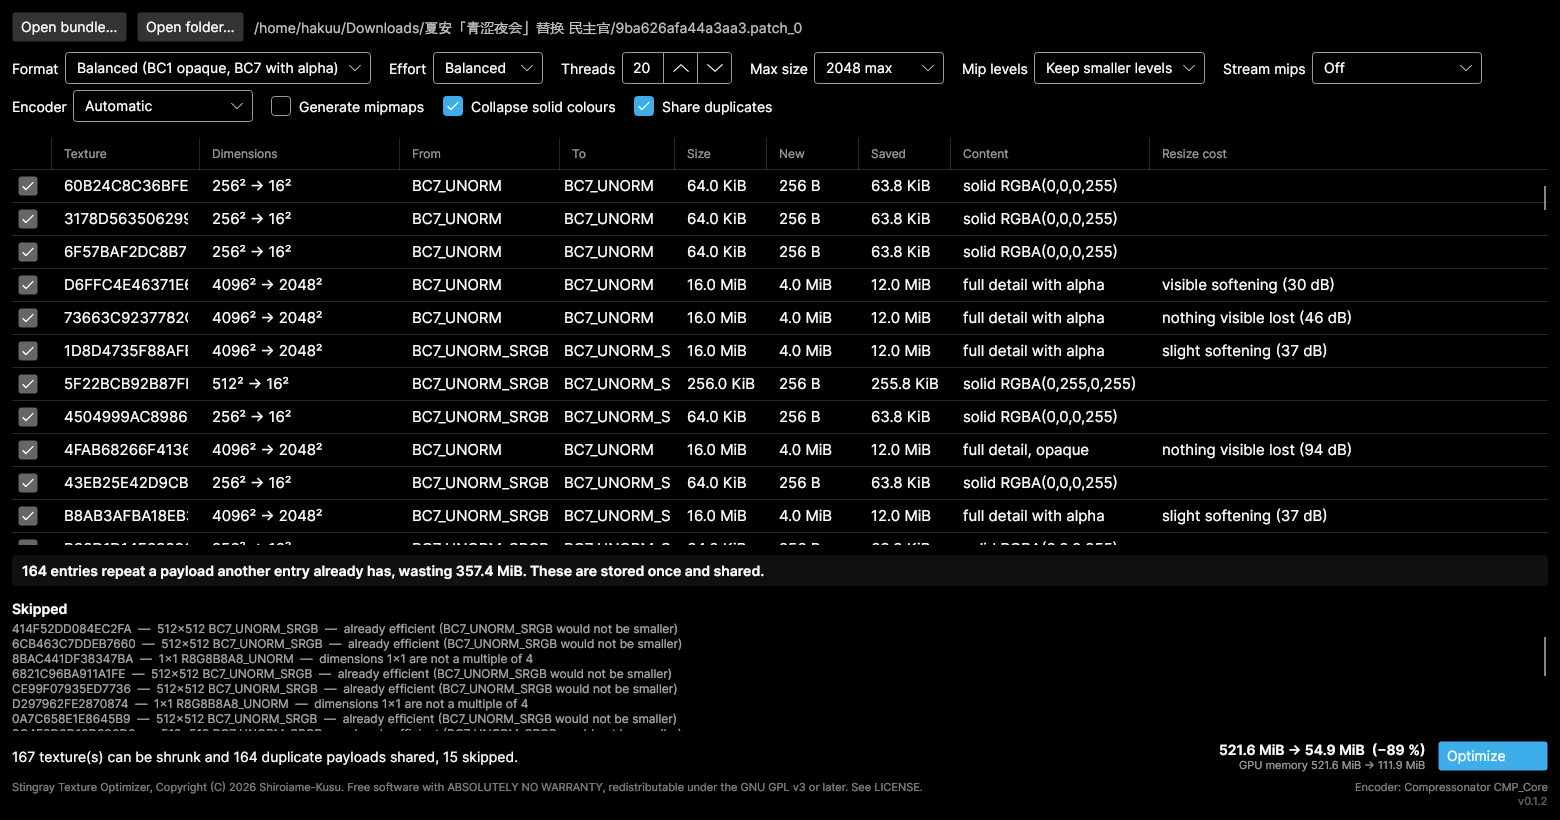
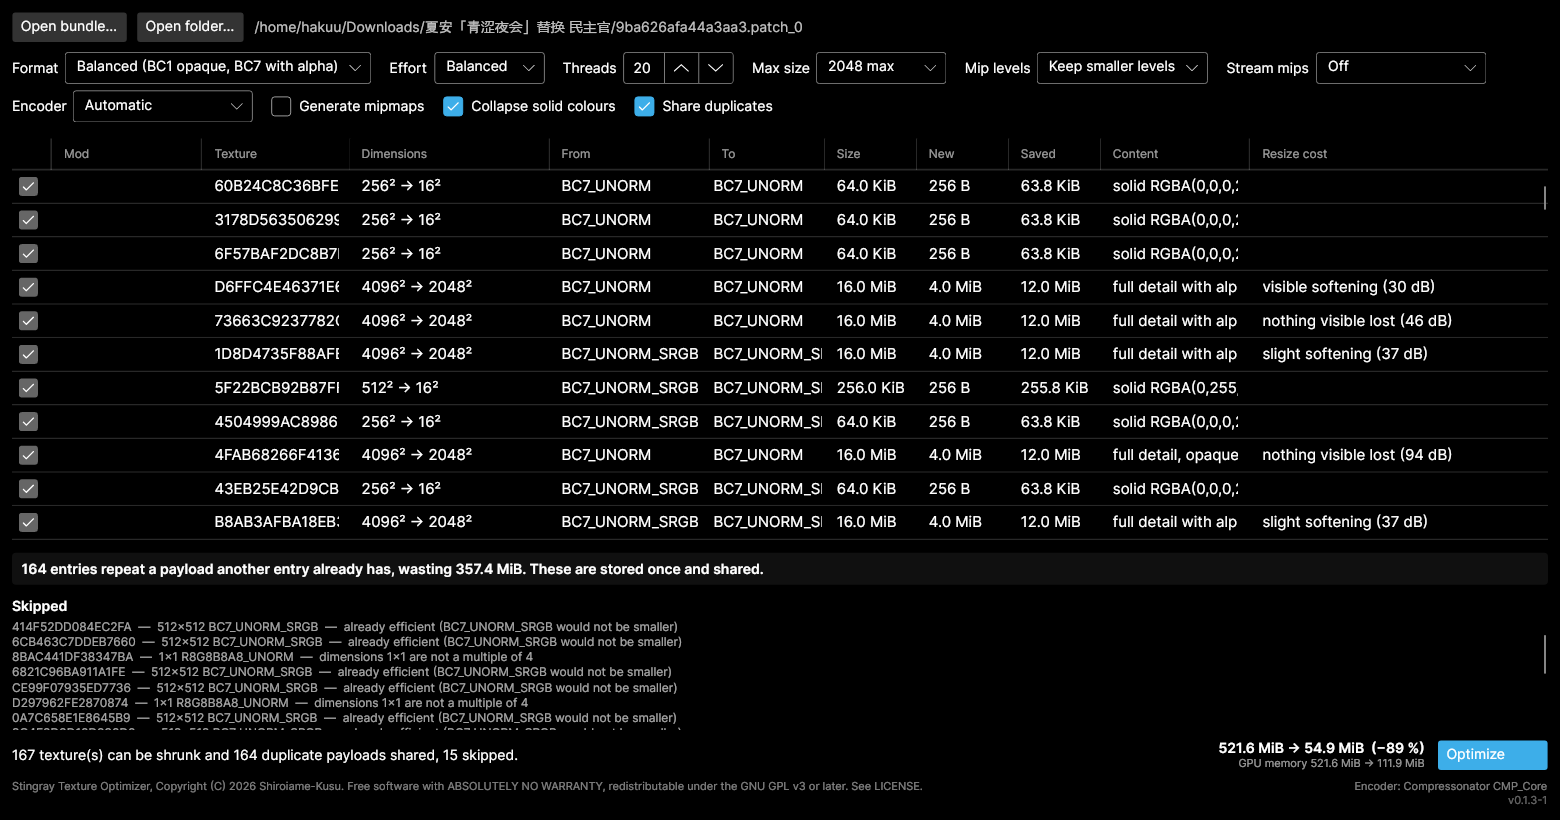
Rework the quick start around the folder, and picture the batch
It said three steps and then put the whole of folder mode inside step
two: the tree, variants, ticking, batch analysis, when an analysis is
retired, why backup folders are skipped. All true, none of it a first
run. It also led with Open bundle... and treated Open folder... as an
aside, which is backwards for the reader it addresses -- somebody who
installed a mod rather than made one has a folder, not a path to a file
with no extension.

Four steps now, one thing each: unpack, open the folder, tick and
analyse, read and optimise. The reference material moved to Use > GUI
where it belongs.

Screenshots regenerated against the shipped build. The scan one still
showed "no bundle loaded" over a list of 213 mods, which was a bug fixed
two commits later -- a screenshot of a fixed bug is worse than none. New
one for analysing a batch, which was the headline of 0.1.3 and had no
picture: six bundles from two mods, the Mod column naming the mod above
the variant, totals for the whole selection.

--tick <substring> picks which mods to tick for that shot. --analyse N
takes the first N alphabetically, and which mods have anything to save is
not alphabetical, so it kept producing pictures of an empty grid.

diff --git a/src/Stingray.Gui/Screenshot.cs b/src/Stingray.Gui/Screenshot.cs
@@ -22,6 +22,14 @@ internal static class Screenshot
     public static string? BundlePath { get; private set; }
     public static string? ScanPath { get; private set; }
     public static int AnalyseCount { get; private set; }
+
+    /// <summary>
+    /// Mods to tick, matched on part of the name. Naming them beats taking the
+    /// first few: which mods have anything to save is not alphabetical, and a
+    /// picture of an empty grid documents nothing.
+    /// </summary>
+    public static List<string> Tick { get; } = [];
+
     public static int SizeCap { get; private set; }
     public static int StreamFloor { get; private set; }
     public static bool Requested => OutputPath is not null;
@@ -45,6 +53,9 @@ internal static class Screenshot
                     break;
                 case "--analyse" when i + 1 < args.Length:
                     AnalyseCount = int.TryParse(args[++i], out var count) ? count : 0;
+                    break;
+                case "--tick" when i + 1 < args.Length:
+                    Tick.Add(args[++i]);
                     break;
                 case "--cap" when i + 1 < args.Length:
                     SizeCap = int.TryParse(args[++i], out var cap) ? cap : 0;
@@ -90,11 +101,19 @@ internal static class Screenshot
                 break;
             }
 
+            foreach (var name in Tick)
+                foreach (var mod in viewModel.Mods)
+                    if (mod.Name.Contains(name, StringComparison.OrdinalIgnoreCase))
+                    {
+                        mod.IsChecked = true;
+                        mod.IsExpanded = true;
+                    }
+
             if (AnalyseCount > 0)
-            {
                 foreach (var mod in viewModel.Mods.Take(AnalyseCount)) mod.IsChecked = true;
+
+            if (Tick.Count > 0 || AnalyseCount > 0)
                 await viewModel.AnalyseManyAsync(viewModel.CheckedBundles);
-            }
         }
 
         if (BundlePath is not null)

diff --git a/README.zh-CN.md b/README.zh-CN.md
@@ -61,56 +61,58 @@
 
 ## 快速上手
 
-第一次用？三步。
+四步，而且一路上每个默认值都可以直接接受。
 
-**1. 下载并解压。** 从 [Releases](../../releases) 拿到对应你系统的压缩包，解压到任意
-位置。无需安装。
+### 1. 下载并解压
 
-**2. 指向一个 mod。** 运行 `stingray-tex-gui`，点击 **Open bundle…**，选中资源包文件
-—— 就是那个**没有扩展名**、或者以 `.patch_0`、`.patch_1` 之类结尾的文件。不要选
-`.gpu_resources`，那个会被自动找到。
+从 [Releases](../../releases) 拿到对应你系统的压缩包，解压到任意位置。无需安装 ——
+不需要 .NET 运行时，也没有别的依赖。然后运行 `stingray-tex-gui`。
 
-如果这个 mod 是你装的而不是你做的，这些文件就在你的 mod 管理器存放它们的地方 ——
-一个 mod 一个文件夹，每个文件夹里放着上面那三个文件。
+### 2. 打开放 mod 的那个文件夹
 
-**或者直接点“打开文件夹…”，让它自己去找。** 指向你的 mod 管理器存放 mod 的那个文件夹，
-它会把下面所有内容都搜一遍。
+点 **Open folder…**，指向你的 mod 管理器存放 mod 的地方，它会把下面所有内容都搜一遍。
 
 ![扫描 mod 管理器的文件夹](docs/images/04-scan.zh.png)
 
-列表就是文件夹树，因为这是文件本身唯一带有的结构。带可选项的 mod 会把变体放在自己下面的
-子文件夹里，所以 *Long boi* 和 *Shorty* 会显示在它们所属的那个 mod 下面，而不是变成
-一个平铺列表里两个看不出来历的名字。每一行都标着自己占多大；只有一个资源包的 mod 直接
-显示成一行，不用再点开一层。
+每一行都标着这个 mod 占多少显存 —— 这正是整个工具要解决的那个数字。列表就是文件夹树，
+因为这是文件本身唯一带有的结构：带可选项的 mod 会把变体放在自己下面的子文件夹里，
+于是它们会出现在所属的那个 mod 下面，而不是变成平铺列表里几个看不出来历的名字。
+只有一个资源包的 mod 直接显示成一行，不用再点开一层。
 
-点击某个资源包就能看到它的处理方案，和直接打开它一样。
+如果这个 mod 是你自己做的、而且你只想处理某一个文件，**Open bundle…** 可以直接打开它 ——
+就是那个**没有扩展名**、或者以 `.patch_0`、`.patch_1` 之类结尾的文件。不要选
+`.gpu_resources`，那个会被自动找到。
 
-**也可以勾选多个 —— 勾选一个 mod 就等于勾选它下面的全部 —— 这时按钮会变成“分析”。**
-点一下，所有勾选的资源包都会被分析，它们的纹理会一起显示在同一张表里，并用“所属 Mod”
-一列标明每一行来自哪个资源包，右下角的总计是整个选择的合计。只有到这一步按钮才会变成
-“优化”，所以批量处理和单个资源包一样，都是先看过再写；你依然可以跨多个资源包逐张取消
-勾选。
+### 3. 勾选要处理的，然后点“分析”
 
-改动任何设置都会作废这次分析，按钮重新变回“分析” —— 因为方案描述的是它当时所依据的
-设置。写入时会逐个备份并校验，缩小不了的会被报告并跳过。
+勾选一个 mod 就等于勾选它下面的全部，按钮上的数字是还没分析的那些 —— 会显示成
+**分析 6 个**，而不是光写一个“分析”。点下去：
 
-所有 backup 文件夹都会被跳过，包括这个工具自己写出来的那些 —— 否则你已经优化过的每个
-mod 都会出现两次，一次是现在的样子，一次是原来的样子。
+![来自两个 mod 的六个资源包，一起分析](docs/images/05-batch.zh.png)
 
-**3. 看一眼，然后点 Optimize。** 表格里列出了每一张可以缩小的纹理以及它会变成什么样，
-右下角是总计。确认没问题就按 **Optimize**。
+勾选的一切会被读进同一张表。“所属 Mod”一列上面写 mod、下面写变体，因为像 *本体*
+这样的名字单独拿出来什么也说明不了。右下角的总计是整个选择的合计 —— 这里是
+**571.7 MiB → 228.2 MiB**，六个资源包一次性减掉 60%。
 
-![一个全是未压缩纹理的资源包的处理方案](docs/images/01-plan.zh.png)
+到这一步还没有写入任何东西。分析只是读。
 
-怎么看：每一行是一张纹理，**Size → New** 是它现在占多少、之后会占多少，**Content**
-是分析器在里面发现了什么。其中两张结果是纯色，于是从 2048² 折叠成 16×16 ——
-16 MiB 变成 128 字节。按钮上方的横幅报告的是那些出现了不止一次、将会只存一份的数据。
+### 4. 看懂方案，然后点 Optimize
 
-右下角是总计：**475.1 MiB → 174.7 MiB**，以及单独列出的显存 —— 如果你显存紧张，
-那才是要盯的数字。
+每一行是一张纹理。**Size → New** 是它现在占多少、之后会占多少，**Content** 是分析器
+在里面发现了什么，左边的勾去掉就能保留那一行不动。
 
-在写入任何东西之前，你的原始文件会被复制到资源包旁边的 `backup/` 文件夹里，
-之后结果还会被自动校验。
+![单独打开一个资源包](docs/images/01-plan.zh.png)
+
+那是单个资源包的样子 —— 点击（而不是勾选）某个 mod 就会得到它，同一张表，只是来源只有
+一个。其中两张纹理整张都是同一个颜色，于是从 2048² 折叠成 16×16：各自从 16 MiB 变成
+128 字节，而且在任何尺寸下采样结果都一样。按钮上方的横幅报告的是那些出现了不止一次、
+将会只存一份的数据。
+
+右下角是总计 **475.1 MiB → 174.7 MiB**，下面单独列着显存 —— 如果你显存紧张，那才是
+要盯的数字，因为共享重复数据只缩小文件，不改变显卡里放着的东西。
+
+按 **Optimize**。在写入之前，你的原始文件会先被复制到资源包旁边的 `backup/` 文件夹里，
+写完之后结果还会被自动校验。
 
 ### 我该选什么
 
@@ -328,6 +330,26 @@ dotnet run --project src/Stingray.Gui -c Release
 
 打开资源包，审阅方案，把你不认同的逐张纹理格式改掉，然后 Optimize。在写入任何东西
 之前，原文件会被复制到资源包旁边的 `backup/` 文件夹，结果也会被自动校验。
+
+#### 一次处理多个 mod
+
+**扫描时会跳过所有 backup 文件夹**，包括这个工具自己写出来的那些。否则你已经优化过的
+每个 mod 都会出现两次 —— 一次是现在的样子，一次是原来的样子 —— 而优化错了那一个就会
+毁掉你唯一的退路。
+
+**分析结果在还有效的期间会一直留着。** 取消勾选某个 mod，它的行就从表里离开；重新勾上，
+它们会原样回来，包括你之前逐张取消勾选的那些纹理。勾选新的东西时，只有新来的那个会被
+分析。在一个真实文件夹上，四个资源包要花 2.9 秒，之后再加第五个只要 156 毫秒，
+而不是再花 2.9 秒。点击某个 mod 看一眼也算，所以之后再勾选它是不花钱的。
+
+**唯一会作废它的是改动设置**，因为方案描述的是它当时所依据的设置。这时按钮会重新变回
+“分析”，而不是直接写入。
+
+**屏幕上显示的永远就是按钮会处理的东西。** 单独打开一个资源包会把批量结果从表里撤下来，
+而不是把它的总计和这个资源包的加在一起。半勾状态是一个 mod 由它的变体告诉它的，
+永远不会是点击能选出来的。
+
+写入时会逐个备份并校验。结果发现缩小不了的会被计数并原样留下，而不是白写一遍。
 
 ### 命令行
 

diff --git a/README.md b/README.md
@@ -75,66 +75,66 @@ which, so you can keep that last one at full size.
 
 ## Quick start
 
-New to this? Three steps.
+Four steps, and you can accept every default on the way.
 
-**1. Download and unpack.** Grab the archive for your system from
-[Releases](../../releases) and unzip it anywhere. Nothing to install.
+### 1. Download and unpack
 
-**2. Point it at a mod.** Run `stingray-tex-gui`, click **Open bundle…**, and
-pick the bundle file — the one with **no extension** or ending in `.patch_0`,
-`.patch_1` and so on. Not the `.gpu_resources` file; that one is found
-automatically.
+Grab the archive for your system from [Releases](../../releases) and unzip it
+anywhere. Nothing to install — no .NET runtime, no dependencies. Run
+`stingray-tex-gui`.
 
-If you installed the mod rather than made it, those files are wherever your mod
-manager keeps them — one folder per mod, each holding that trio of files.
+### 2. Open the folder your mods are in
 
-**Or press Open folder… and let it find them.** Point it at the folder your mod
-manager keeps mods in and it searches everything underneath.
+Press **Open folder…** and point it at wherever your mod manager keeps mods. It
+searches everything underneath.
 
 ![Scanning a mod manager's folder](docs/images/04-scan.png)
 
-The list is the folder tree, because that is the only structure the files carry.
-A mod that ships variants keeps them in folders under itself, so *Long boi* and
-*Shorty* show up beneath the mod they belong to rather than as two unexplained
-names in a flat list. Each line carries what it costs; a mod with one bundle is
-shown as one line rather than a folder you have to open.
+Each line says what that mod costs in GPU memory, which is the number this whole
+tool is about. The list is the folder tree, because that is the only structure
+the files actually carry: a mod shipping variants keeps them in folders under
+itself, so those appear beneath the mod they belong to instead of as unexplained
+names in a flat list. A mod with a single bundle is one line, not a folder to
+open.
 
-Click a bundle to see its plan, as if you had opened it directly.
+If you built the mod yourself and want one specific file, **Open bundle…** takes
+it directly — the file with **no extension** or ending `.patch_0`, `.patch_1`
+and so on. Not the `.gpu_resources`; that is found for you.
 
-**Or tick several — ticking a mod ticks everything under it — and the button
-becomes Analyse.** Press it and every ticked bundle is analysed, with all of
-their textures shown together in one grid and a **Mod** column saying which
-bundle each row came from. The totals at the bottom right are for the whole
-selection. Only then does the button become Optimize, so a batch gets looked at
-before it is written exactly as a single bundle does, and you can still untick
-individual textures across any of them.
+### 3. Tick what you want, then press Analyse
 
-Changing a setting retires the analysis and the button offers a fresh one, since
-the plans describe the settings they were built under. Writing then backs up and
-verifies each bundle in turn, and anything that would not shrink is reported and
-left alone.
+Ticking a mod ticks everything under it, and the button counts what is still
+outstanding — **Analyse 6**, not just Analyse. Press it:
 
-Any `backup` folder is skipped, including the ones this tool writes — otherwise
-every mod you had already optimised would appear twice, once as it is and once
-as it was.
+![Six bundles from two mods, analysed together](docs/images/05-batch.png)
 
-**3. Look, then click Optimize.** The grid lists every texture that can be
-shrunk and what it will become. The bottom-right shows the total. Press
-**Optimize** when you are happy.
+Everything ticked is read into one grid. The **Mod** column names the mod on top
+and the variant underneath, because a name like *本体* means nothing on its own.
+The totals at the bottom right cover the whole selection — here **571.7 MiB →
+228.2 MiB**, a 60% cut across six bundles at once.
 
-![The plan for a bundle of uncompressed textures](docs/images/01-plan.png)
+Nothing has been written yet. Analysing only reads.
 
-Reading that: each row is one texture, **Size → New** is what it costs now and
-what it will cost after, and **Content** says what the analyser found inside it.
-Two of these turned out to be a solid colour, so they collapse from 2048² to
-16×16 — 16 MiB down to 128 bytes. The banner above the buttons reports payloads
-that appear more than once and will be stored once instead.
+### 4. Read the plan, then press Optimize
 
-Bottom right is the total: **475.1 MiB → 174.7 MiB**, and separately the GPU
-memory, which is the number to watch if you are short of VRAM.
+Each row is one texture. **Size → New** is what it costs now and after,
+**Content** is what the analyser found inside it, and the tick on the left drops
+any row you would rather leave alone.
 
-Your original files are copied to a `backup/` folder next to the bundle before
-anything is written, and the result is checked automatically afterwards.
+![One bundle on its own](docs/images/01-plan.png)
+
+That is a single bundle, which is what you get by clicking a mod instead of
+ticking it — the same grid, one source. Two of its textures turned out to be a
+single colour throughout, so they collapse from 2048² to 16×16: 16 MiB down to
+128 bytes each, and they sample identically at any size. The banner above the
+buttons reports payloads that appear more than once and will now be stored once.
+
+Bottom right is the total, **475.1 MiB → 174.7 MiB**, and beneath it the GPU
+memory separately — that is the one to watch if you are short of VRAM, since
+sharing duplicates shrinks the file without changing what the card holds.
+
+Press **Optimize**. Your originals are copied to a `backup/` folder beside the
+bundle first, and the result is verified automatically afterwards.
 
 ### What should I choose?
 
@@ -375,6 +375,32 @@ dotnet run --project src/Stingray.Gui -c Release
 Open a bundle, review the plan, override any per-texture format you disagree
 with, then Optimize. Originals are copied to a `backup/` folder next to the
 bundle before anything is written, and the result is verified automatically.
+
+#### Working on several mods at once
+
+**Backup folders are skipped when scanning**, including the ones this tool
+writes. Without that, every mod you had already optimised would be listed twice
+— once as it is and once as it was — and optimising the wrong one would destroy
+the only way back.
+
+**Analysis is kept for as long as it is valid.** Untick a mod and its rows leave
+the grid; tick it back and they return exactly as they were, including any
+individual textures you had unticked. Tick something new and only the newcomer
+is analysed. On a real folder, four bundles take 2.9 s and adding a fifth then
+costs 156 ms rather than another 2.9 s. Clicking a mod to look at it counts too,
+so ticking it afterwards is free.
+
+**Changing a setting is the one thing that retires it**, since a plan describes
+the settings it was built under. The button goes back to offering an analysis
+rather than a write.
+
+**The screen always shows what the button would do.** Opening one bundle takes a
+batch off the grid rather than leaving its totals summed against that bundle's.
+The half-ticked mark is something a mod is told it is by its variants, never
+something a click can ask for.
+
+Writing then backs up and verifies each bundle in turn. Anything that turns out
+not to shrink is counted and left alone rather than rewritten for nothing.
 
 ### CLI
 

diff --git a/CONTRIBUTING.md b/CONTRIBUTING.md
@@ -60,14 +60,27 @@ desktop, so they are reproducible and contain nothing but the window:
 
 ```sh
 dotnet build -c Release
-./src/Stingray.Gui/bin/Release/net10.0/stingray-tex-gui \
-    --screenshot docs/images/01-plan.png --bundle /path/to/some.patch_0
-./src/Stingray.Gui/bin/Release/net10.0/stingray-tex-gui \
-    --screenshot docs/images/02-resize.png --cap 2048 --bundle /path/to/some.patch_0
+GUI=./src/Stingray.Gui/bin/Release/net10.0/stingray-tex-gui
+
+# One bundle, on its own and with a size cap.
+$GUI --screenshot docs/images/01-plan.png   --bundle /path/to/some.patch_0
+$GUI --screenshot docs/images/02-resize.png --cap 2048 --bundle /path/to/some.patch_0
+$GUI --screenshot docs/images/03-stream.png --stream 256 --bundle /path/to/some.patch_0
+
+# A folder of mods, listed and then analysed. --tick matches on part of a mod's
+# name and may be repeated; naming them beats --analyse N, because which mods
+# have anything to save is not alphabetical and a picture of an empty grid
+# documents nothing.
+$GUI --screenshot docs/images/04-scan.png  --scan /path/to/mods
+$GUI --screenshot docs/images/05-batch.png --scan /path/to/mods \
+     --tick "Some Mod" --tick "Another Mod"
 ```
 
-Regenerate them when the UI changes. Use your own bundle: game assets must not
-be committed, and only the rendered window ends up in the PNG.
+Add `STINGRAY_LANG=zh` for the `.zh.png` pair of each.
+
+Regenerate them when the UI changes — a screenshot showing a bug that has since
+been fixed is worse than none. Use your own bundles: game assets must not be
+committed, and only the rendered window ends up in the PNG.
 
 ## Style
 
